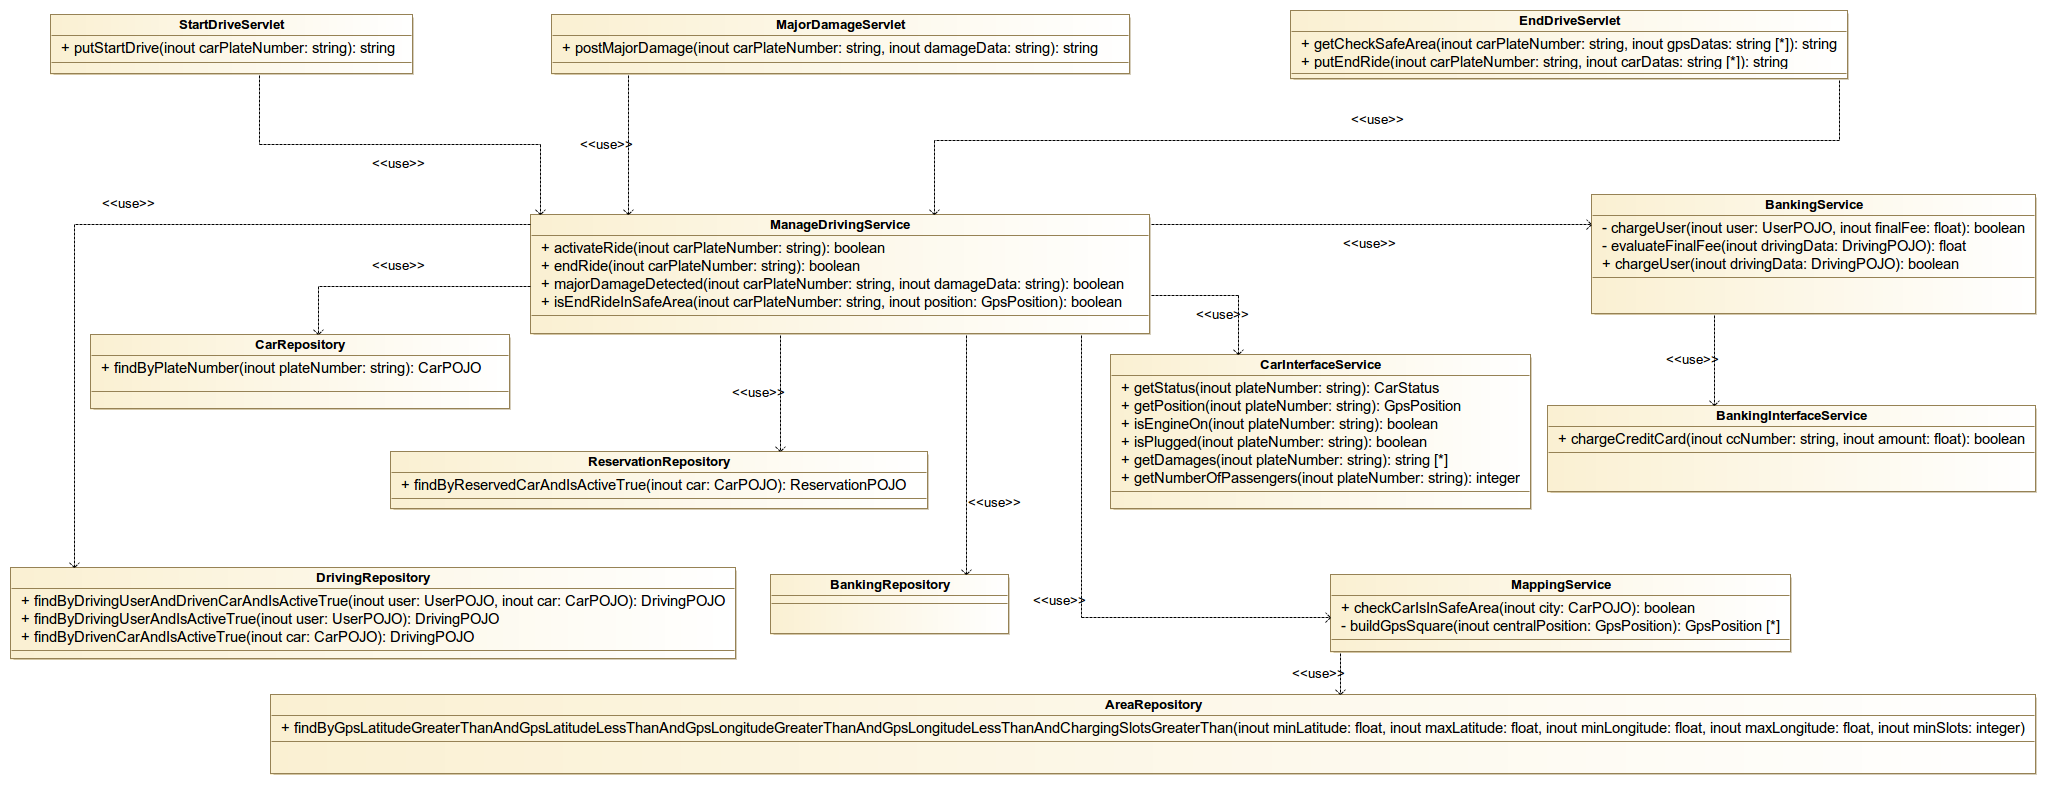
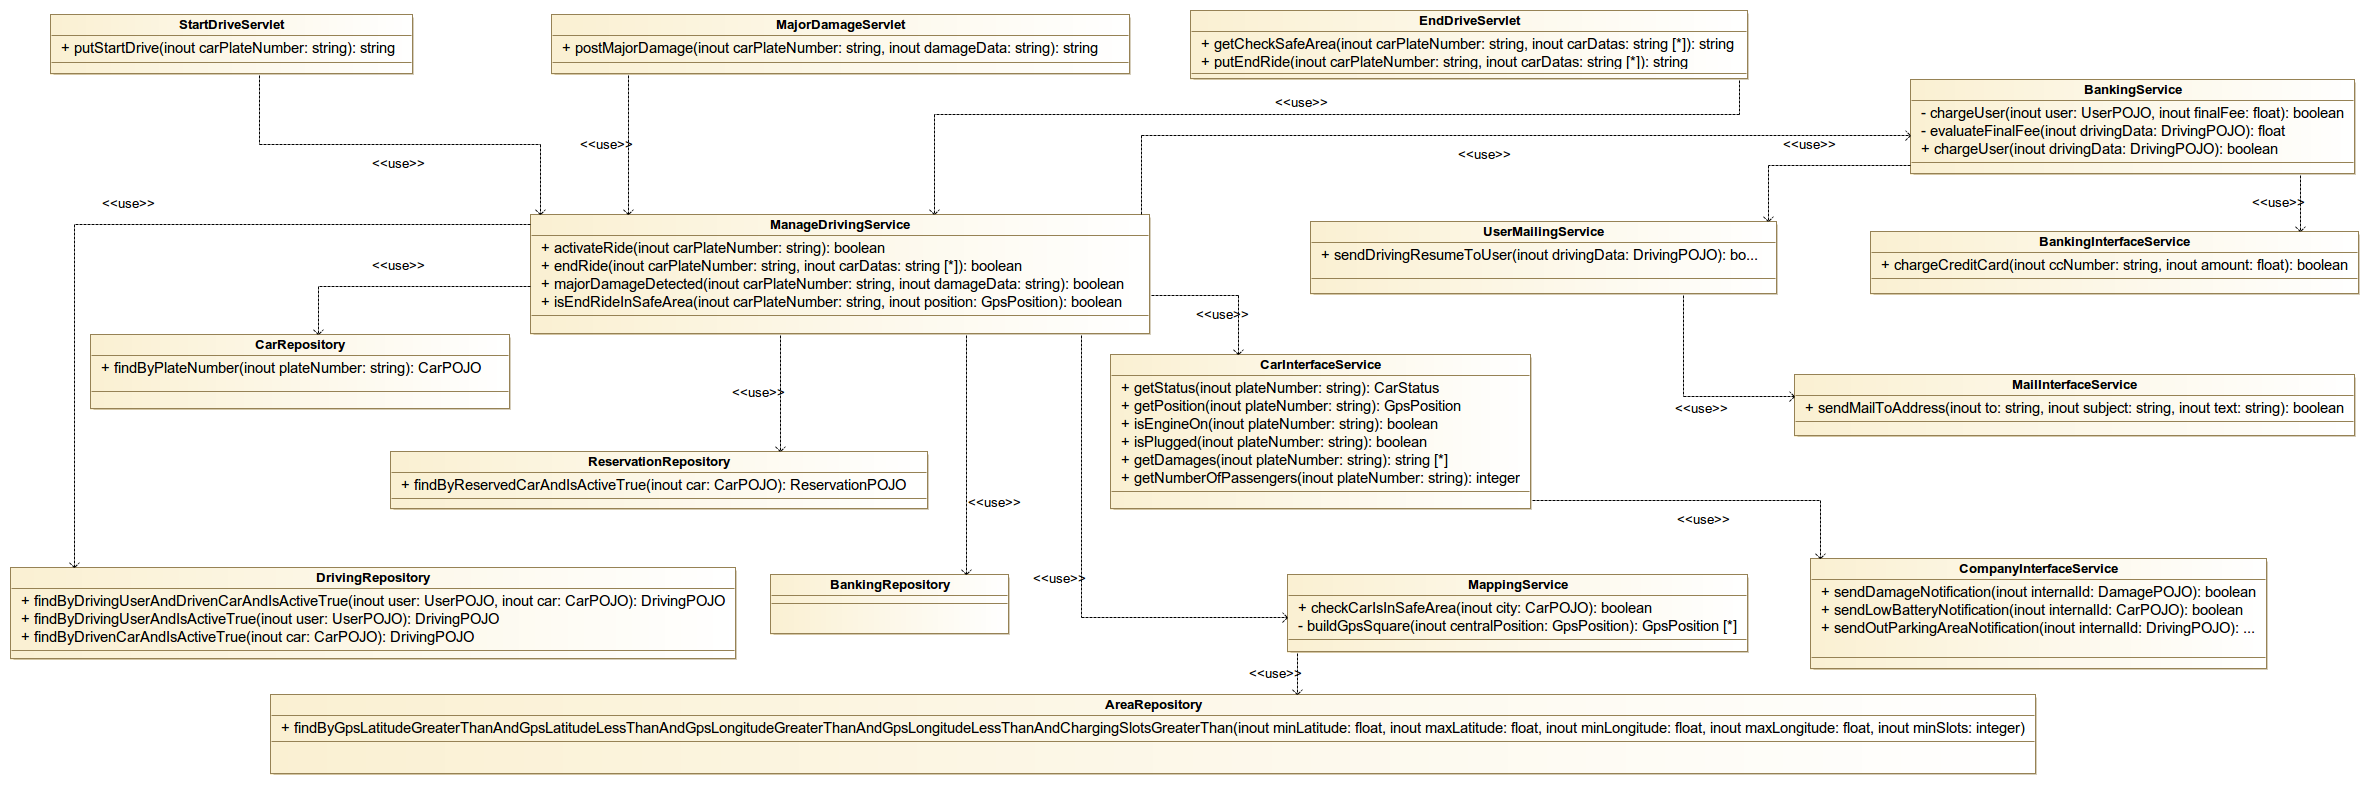
Modified class diagrams, RASD assumptions and use case description

diff --git a/Phases/RE/LaTex/RASD_UseCaseSpecification.tex b/Phases/RE/LaTex/RASD_UseCaseSpecification.tex
@@ -293,8 +293,10 @@ The \emph{User} enters the \emph{Car}. \\ \hline
 	\end{enumerate}	 \\ \hline
 	\textbf{Post Conditions} & The \emph{System} locks the doors of the \emph{Car} and sets its status to \emph{Available}.
 	
-	The \emph{System} communicates to the \emph{Banking System} the final \emph{Fee} to charge the \emph{User}. \\ \hline
-	\textbf{Alternative Flow of Events} & 
+	The \emph{System} communicates to the \emph{Banking System} the final \emph{Fee} to charge the \emph{User}. 
+	
+	The \emph{System} asks the \emph{Mail System} to forward the drive details to the \emph{User} email address. \\ \hline
+		\textbf{Alternative Flow of Events} &
 	\begin{itemize}
 		\item The \emph{Battery} status is higher than 50\%, the \emph{User} didn't or did take at least 2 \emph{Passengers} with him for at least 3 minutes (UC10), didn't leave the \emph{Car} further than 3KM from the nearest \emph{Charging Area}, didn't plug the \emph{Car} (UC12), hence the System applies a 20\% \emph{Discount} on the \emph{Fee} of the last ride and communicates it to the \emph{Banking System} the \emph{Fee} which will be charged to the \emph{User}.
 		\item The \emph{User} did plug the \emph{Car} (UC12), the \emph{Battery} status is higher than or equal to 20\%, they didn't or did take at least 2 \emph{Passengers} with him for at least 3 minutes (UC10), hence the System applies a 30\% \emph{Discount} on the \emph{Fee} of the last ride and communicates to the \emph{Banking System} the \emph{Fee} which will be charged to the \emph{User}.

diff --git a/Phases/RE/LaTex/RASD_GeneralDescription.tex b/Phases/RE/LaTex/RASD_GeneralDescription.tex
@@ -85,7 +85,7 @@ The system will employ the HTTP(S) protocol in order to communicate with the Dat
 \subsection{Assumptions and Dependencies}
 \begin{enumerate}
 	\item The User can only have one Account at time.
-	\item The Company can decide at any time to block an User from accessing to the System (f.e. for improper behavior, unpaid bill, ...). It will be done by employees or Administrators.
+	\item The Company can decide at any time to revoke an User access to the System, charge the User with a fine or apply any other policy it choose (f.e. due to improper behavior, unpaid bill, car parked outside a safe area, ...). It will be done by employees or Administrators.
 	\item The User always provides real correct data in his/her registration form.
 	\item The Database in which the Cars, Parking Areas, Charging Areas, Users,etc, are stored, is owned and managed from the Company (and not by this System), which is responsible for its security, reliability and availability. Our System is provided by the Company with read/write access to this Database.
 	\item The Company is responsible for the employees and their actions.
